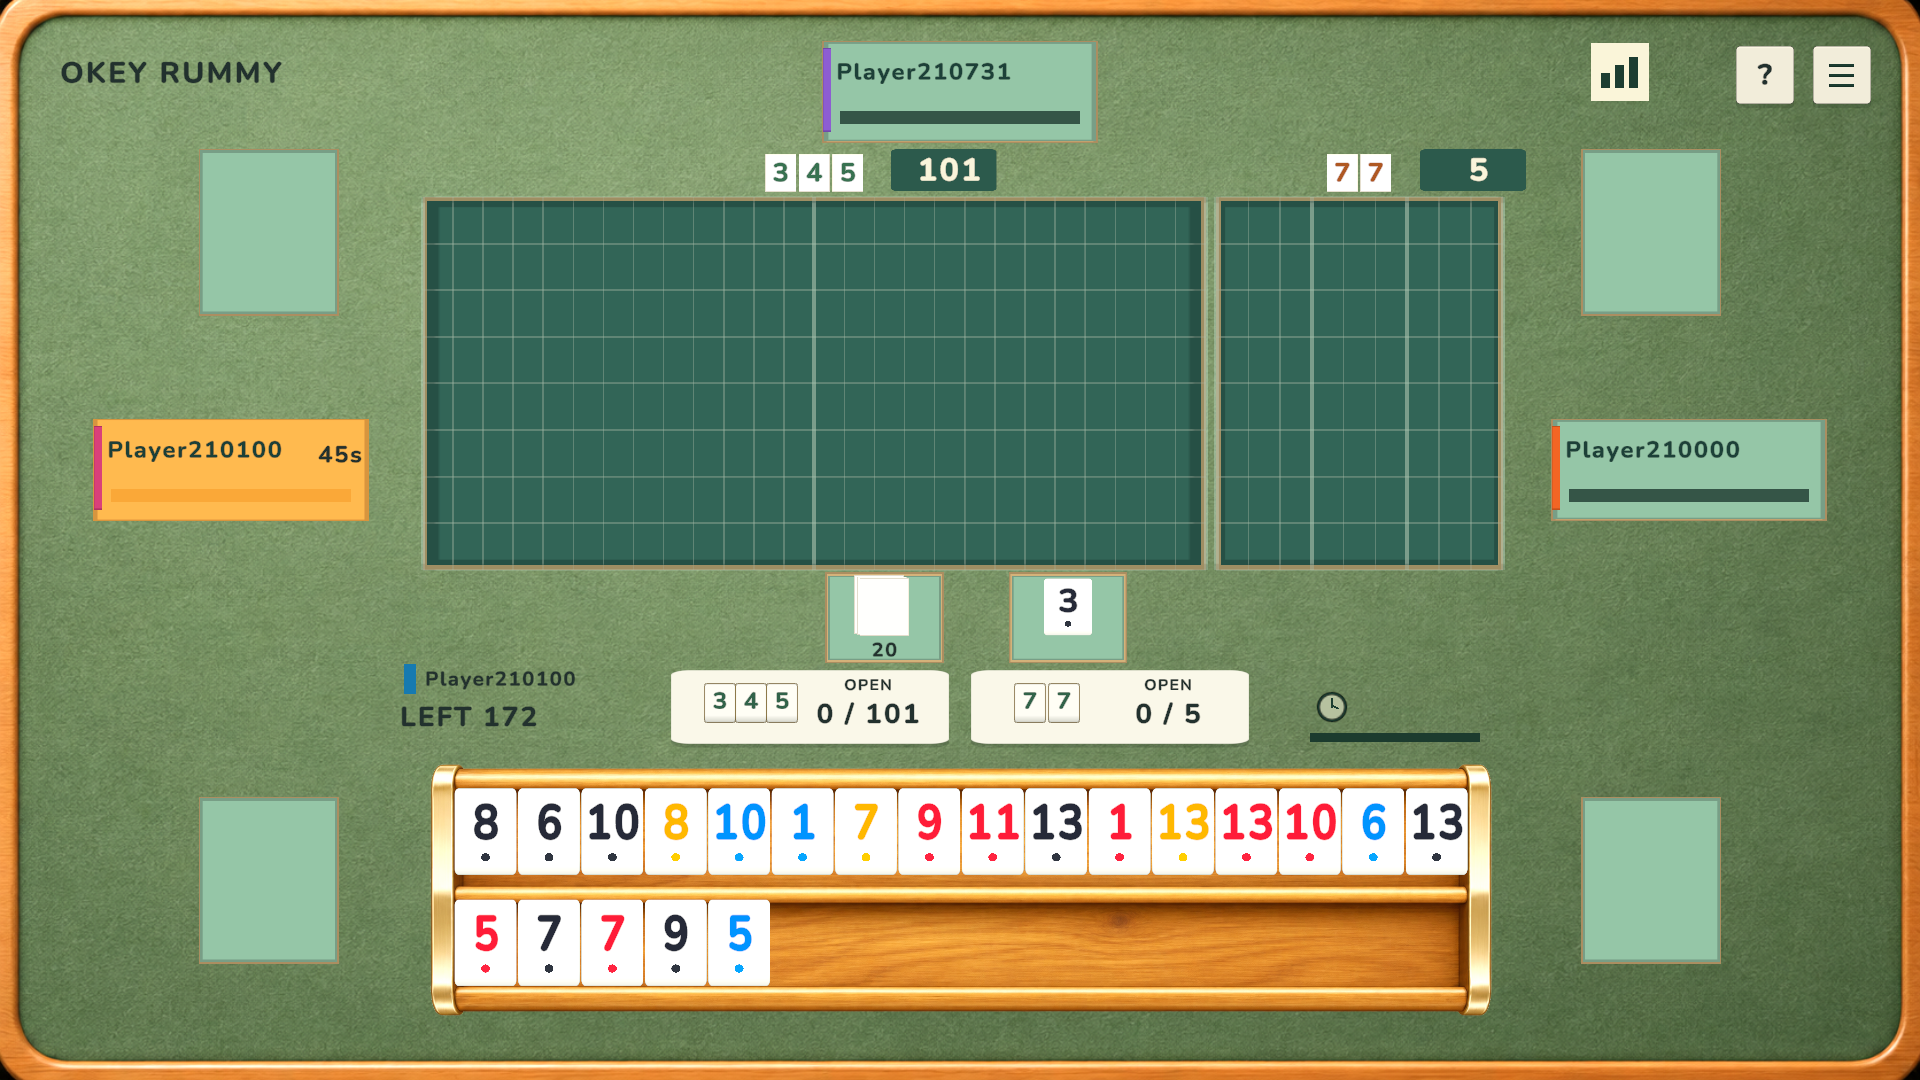
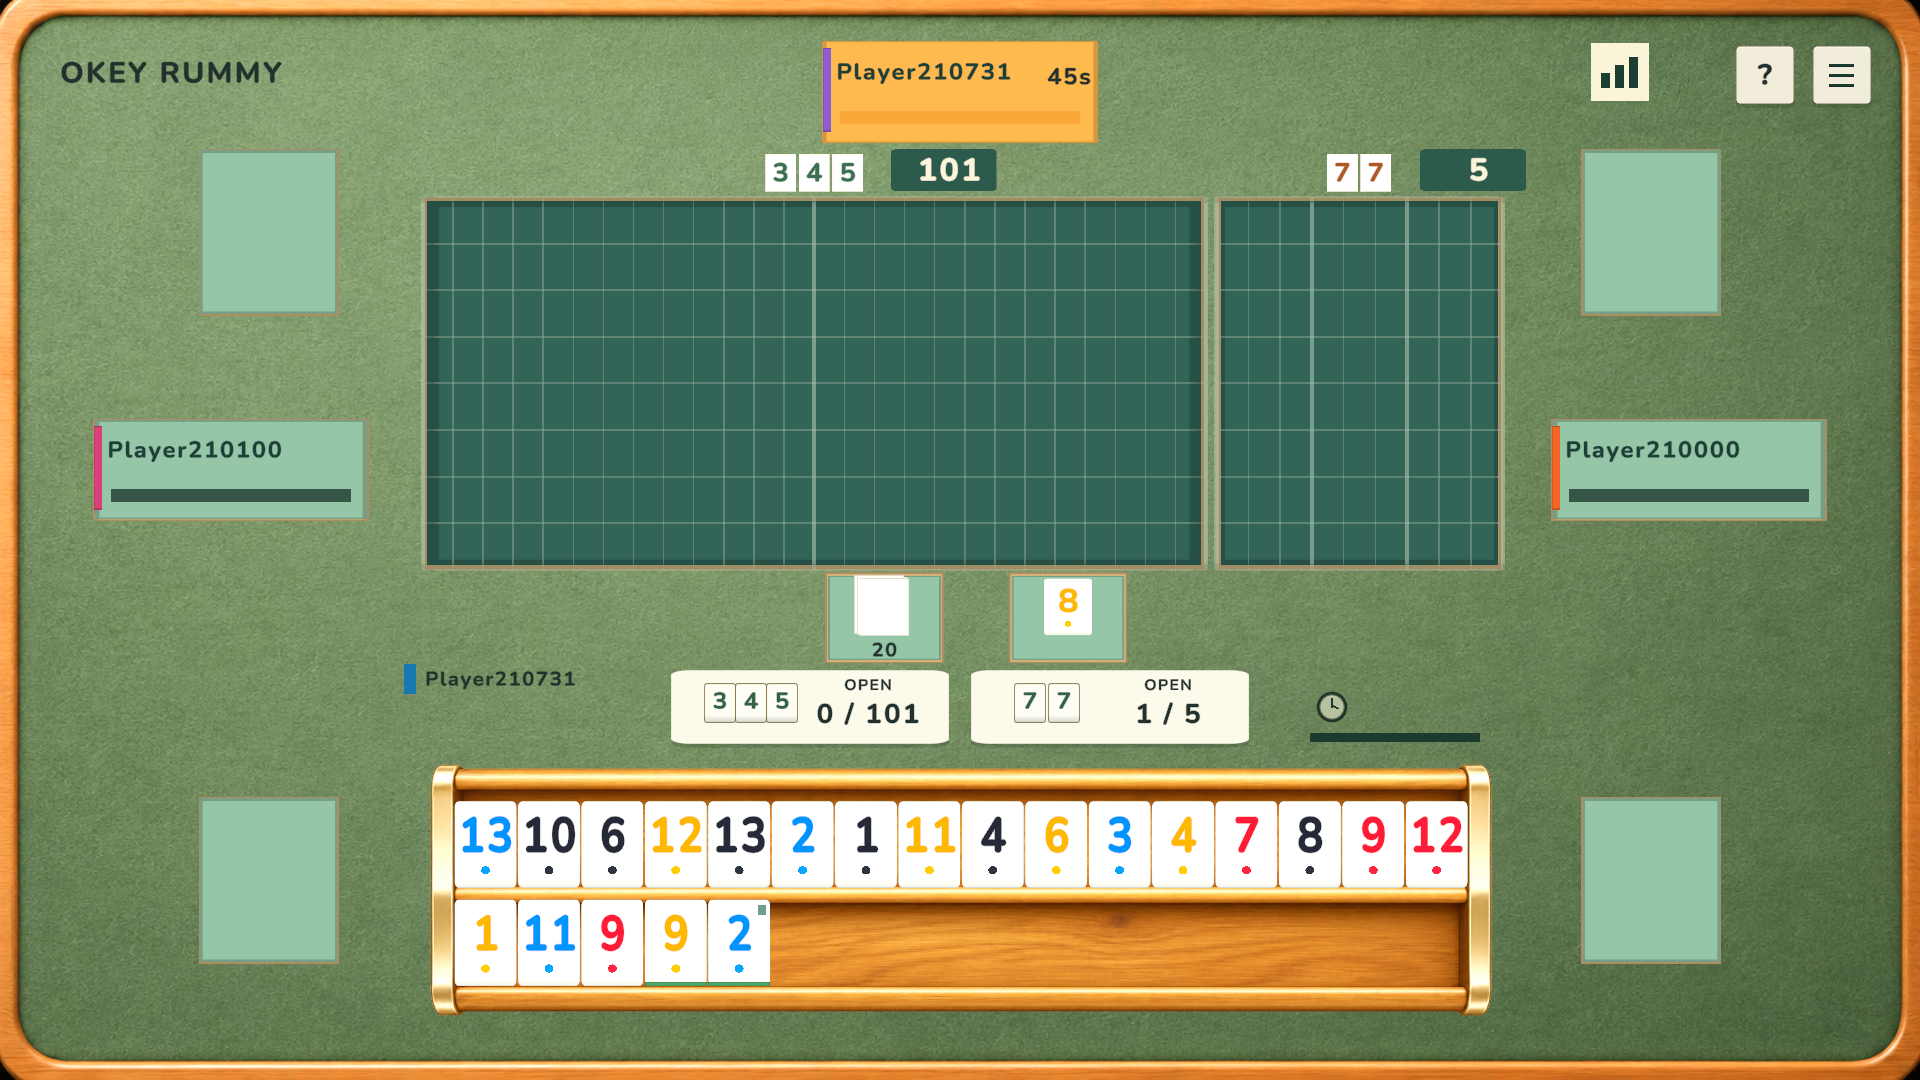
Seat upper rack tiles and show remaining points after opening

diff --git a/Assets/Tests/PlayMode/GameCompositionTests.cs b/Assets/Tests/PlayMode/GameCompositionTests.cs
@@ -1074,12 +1074,11 @@ namespace Okey.Tests.PlayMode
         }
 
         [Test]
-        public void RemainingHandValueShowsPointsInsteadOfTileCountAndScoreSheetCanBeOpenedDuringPlay()
+        public void ClosedHandHidesRemainingValueAndScoreSheetCanBeOpenedDuringPlay()
         {
             var actions = Controls.Canvas.transform.Find("OpeningActions");
             var value = actions.Find("RemainingHandValue").GetComponent<TMP_Text>();
-            Assert.That(value.gameObject.activeSelf, Is.True);
-            Assert.That(value.text, Is.EqualTo($"LEFT {_context.Container.Resolve<TableSession>().RemainingHandValue(0)}"));
+            Assert.That(value.gameObject.activeSelf, Is.False);
             Assert.That(actions.Find("HandIcon").gameObject.activeSelf, Is.False);
             Assert.That(Controls.Hud.StatusText.text, Is.EqualTo("YOUR TURN"));
             var view = _context.Container.Resolve<ScoreboardView>();
@@ -1088,6 +1087,48 @@ namespace Okey.Tests.PlayMode
             Assert.That(view.transform.Find("ScorePanel").gameObject.activeSelf, Is.True);
             Assert.That(view.GetComponentsInChildren<TMP_Text>().Any(text => text.text.Contains("101 OKEY")), Is.True);
             Assert.That(view.GetComponentsInChildren<TMP_Text>().Any(text => text.text.Contains("Hand 1 / 5")), Is.True);
+        }
+
+        [TestCase(OpeningMode.Series, 7)]
+        [TestCase(OpeningMode.Pairs, 226)]
+        public void OpeningShowsRemainingPointsWithTheRuleMultiplier(OpeningMode mode, int expected)
+        {
+            _context.Container.Resolve<TableHudPresenter>().Dispose();
+            _context.Container.Resolve<HandPresenter>().Dispose();
+            _context.Container.Resolve<TablePresenter>().Dispose();
+            var deck = Enumerable.Range(0, 30).Select(id => new StoneInstance(id,
+                new StoneData(StoneType.Regular, StoneColor.Black, 8))).ToArray();
+            deck[0] = new StoneInstance(0, new StoneData(StoneType.Regular, StoneColor.Red, 9));
+            deck[1] = new StoneInstance(1, new StoneData(StoneType.Regular, StoneColor.Blue, 3));
+            deck[2] = new StoneInstance(2, new StoneData(StoneType.Regular, StoneColor.Blue, mode == OpeningMode.Pairs ? 3 : 4));
+            deck[3] = mode == OpeningMode.Pairs
+                ? new StoneInstance(3, new StoneData(StoneType.Regular, StoneColor.Red, 10))
+                : new StoneInstance(3, new StoneData(StoneType.Regular, StoneColor.Blue, 5));
+            deck[4] = new StoneInstance(4, new StoneData(StoneType.Regular, StoneColor.Black, mode == OpeningMode.Pairs ? 12 : 7));
+            var session = new TableSession(new OkeyRules(2, 3, 1, 13, 1, 1, 101, 202, 101, -101, 101, 2, 2),
+                deck, Rack.Capacity, new Okey.Core.Games.Okey101Game());
+            var local = new LocalPlayerContext(0, session.Players.Count);
+            var interaction = new RackInteractionController(session.Players[0].Layout, Rack);
+            var factory = _context.Container.Resolve<StoneViewFactory>();
+            var names = _context.Container.Resolve<TablePlayerNames>();
+            var hand = new HandPresenter(session.Players[0].Hand, factory, Rack, interaction);
+            var table = new TablePresenter(session, Controls, factory, local, names);
+            var hud = new TableHudPresenter(session, Controls, hand, interaction, table, Rack, local, names, new RackMeldEvaluator());
+            try
+            {
+                hand.Initialize();
+                table.Initialize();
+                hud.Initialize();
+                var value = Controls.Canvas.transform.Find("OpeningActions/RemainingHandValue").GetComponent<TMP_Text>();
+                Assert.That(value.gameObject.activeSelf, Is.False);
+                Assert.That(session.MeldRules.TryCreate(deck.Skip(1).Take(mode == OpeningMode.Pairs ? 2 : 3),
+                    mode == OpeningMode.Pairs ? MeldKind.Pair : MeldKind.Run, out var meld), Is.True);
+                Assert.That(session.TryOpen(0, mode, new[] { meld }), Is.True);
+                Assert.That(value.gameObject.activeSelf, Is.True);
+                Assert.That(value.text, Is.EqualTo($"LEFT {expected}"));
+                Assert.That(session.RemainingHandValue(0), Is.EqualTo(expected));
+            }
+            finally { hud.Dispose(); table.Dispose(); hand.Dispose(); }
         }
 
         [Test]

diff --git a/Assets/Scripts/Composition/Presenters/TableHudPresenter.cs b/Assets/Scripts/Composition/Presenters/TableHudPresenter.cs
@@ -82,7 +82,7 @@ namespace Okey.Composition
             _view.Surface.Render(publicMelds, !publicMelds && _table.Winner < 0,
                 canDraw, _table.ActiveSeat == _local.Seat && _table.Phase == TurnPhase.AwaitingDiscard && _table.PendingDiscard == null,
                 !_interaction.IsDragging && (_table.CanTakeDiscard(_local.Seat) || hasBorrowedTile), _table.Players.Count);
-            _view.Hud.ShowHandValue(publicMelds);
+            _view.Hud.ShowHandValue(publicMelds && local.Opening != OpeningMode.Closed);
             RenderStatus();
             _view.Hud.RenderValues(_table.RemainingHandValue(_local.Seat), _table.RemainingCount, penalty);
             _view.Panels.RenderHelp(publicMelds);

diff --git a/README.md b/README.md
@@ -31,7 +31,7 @@ The main menu is the first scene in Build Settings. **GameTable.unity** can also
 - Remaining seconds and progress bars for the active seat, with automatic legal play on timeout.
 - Local room browsing, room numbers, optional passwords, configurable match length, a player lobby and adding/removing bots.
 - Per-player profile ScriptableObjects, with immutable runtime identities shared by room and table presentation.
-- Live remaining-hand value in 101, including the held-joker value and pair-opening multiplier.
+- Live remaining-hand value after opening in 101, including the held-joker value and pair-opening multiplier.
 - An optional indicator-copy pair rule, configured in the rule profile.
 
 ![New game menu](Docs/Images/new-game-menu.png)
@@ -120,7 +120,7 @@ Matches default to five hands. The create-room screen selects the match length f
 
 101 defaults to **−101 for finishing**, **101 for discarding a real joker**, and **101 for discarding a tile that extends a public meld**. The rule profile exposes `Winner Score`, `Joker Discard Penalty` and `Playable Discard Penalty` independently. Zero disables either discard charge. Final-tile finishes retain the scoring policy's joker/pair bonuses rather than receiving an extra discard charge.
 
-No player's hand count appears on the table. In 101, **LEFT** shows the local hand's remaining value: ordinary tile values plus the configured held-joker value (default 101), multiplied for a pair-opened hand. It updates after draws, openings, layoffs and discards. Existing action penalties remain separate. Classic hides this 101-specific value. Fixed openings show the required threshold alone; rising openings show the current increased requirement. Initial openings announce the player and public opening value. Local turns show **YOUR TURN** and play a short cue. Drawing, discarding, opening, laying off, penalties and finishing have quieter event sounds; all bundled clips are procedurally synthesized and can be replaced in the audio asset. Playable discards, joker discards and joker reclaims announce the affected player and charge explicitly. Notices queue so an opening or turn announcement cannot erase a penalty. Long tile moves use a configurable shallow arc.
+No player's hand count appears on the table. In 101, **LEFT** appears only after the local player opens and shows their remaining hand value: ordinary tile values plus the configured held-joker value (default 101), multiplied for a pair-opened hand. It updates after draws, openings, layoffs and discards. Existing action penalties remain separate. Classic hides this 101-specific value. Fixed openings show the required threshold alone; rising openings show the current increased requirement. Initial openings announce the player and public opening value. Local turns show **YOUR TURN** and play a short cue. Drawing, discarding, opening, laying off, penalties and finishing have quieter event sounds; all bundled clips are procedurally synthesized and can be replaced in the audio asset. Playable discards, joker discards and joker reclaims announce the affected player and charge explicitly. Notices queue so an opening or turn announcement cannot erase a penalty. Long tile moves use a configurable shallow arc.
 
 Rack group handles use a mixed run/set/pair evaluation independent of whether an opening is legal yet. Whole-group drops remain within one shelf, shift neighboring tiles and preserve physical tile identity. Group drags never discard a group. A pair can be dropped onto the pair board when pair processing is legal; other outside-rack group drops return to the rack.
 
